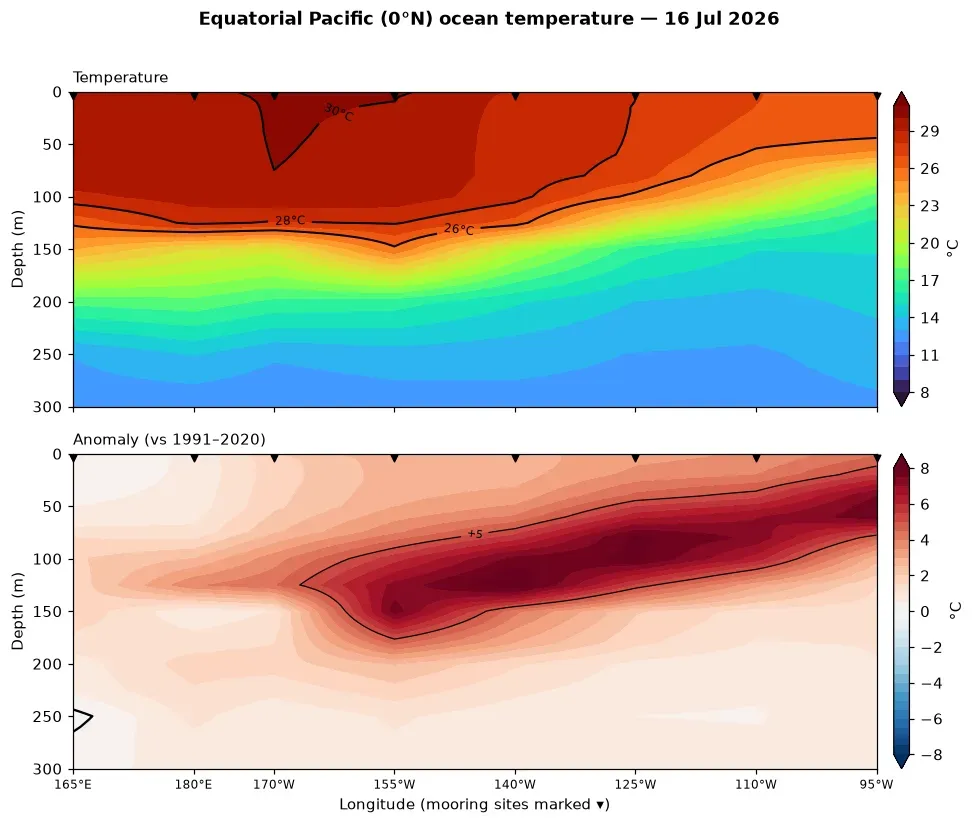
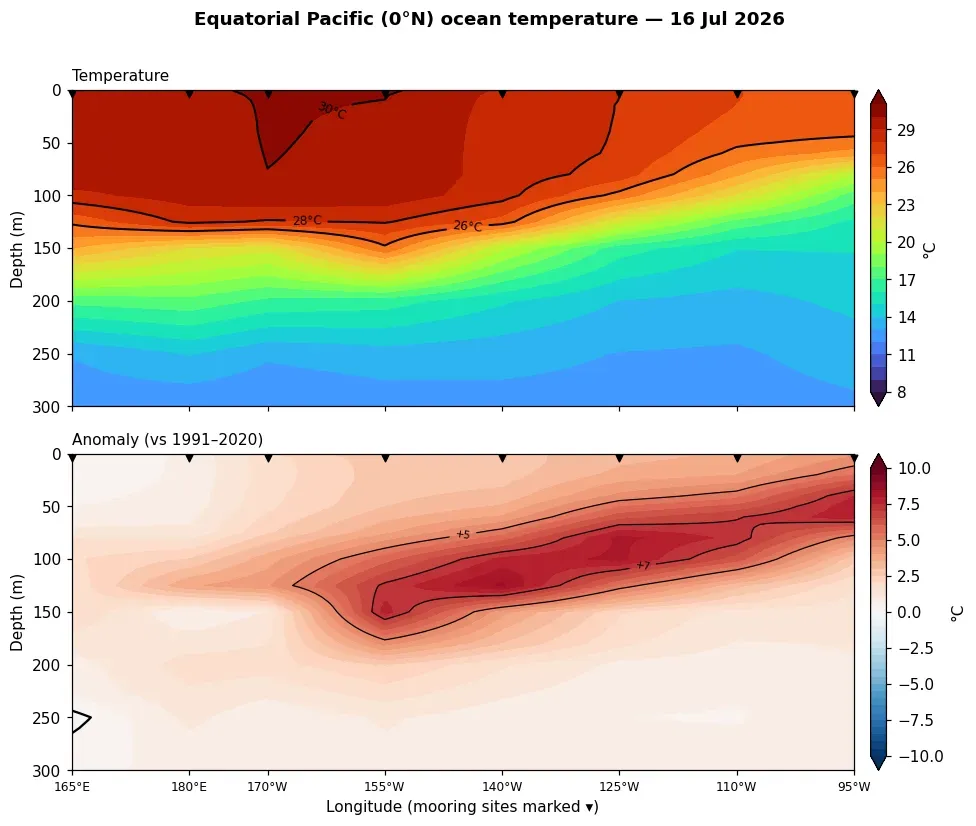
data update

Changed region(s): [[0.0, 0.0607, 0.9846, 1.0], [0.1846, 0.0, 0.8, 0.0303], [0.8, 0.4248, 0.8308, 0.4551]]

diff --git a/scripts/sst/pages/overview.html b/scripts/sst/pages/overview.html
@@ -234,17 +234,6 @@
     <div class="chart-card-footer"><span class="chart-sources">NASA GPM IMERG V07 &middot; regions: IDEAM zonificaci&oacute;n hidrogr&aacute;fica &middot; plants: WRI Global Power Plant Database + curated additions (approx. dam sites) &middot; refreshed with the precip loops</span></div>
   </div>
 
-  <!-- COLOMBIA / PANAMA TRUE-COLOR SATELLITE LOOP (GOES-East via GIBS) -->
-  <div class="chart-card media-narrow">
-    <div class="chart-card-header">
-      <h2>Colombia &amp; Panama: True-Colour Satellite Loop</h2>
-      <p>High-resolution true-colour (visible) imagery over the Colombia/Panama region from <b>GOES-East</b> (NOAA's GeoColor product via NASA GIBS), which sits almost directly overhead here. Because it is visible imagery, the loop runs through the daylight hours of the last two days. <b style="color:#00b3a4">Cyan&nbsp;+</b> marks are GOES&nbsp;GLM lightning flashes from the 15&nbsp;minutes before each frame. Country borders and coastlines are overlaid in yellow.</p>
-    </div>
-    <iframe class="anim-embed colombia" src="sst_anim.html?embed=1&amp;manifest=colombia_manifest.json&amp;region=colombia"
-            title="High-resolution true-colour GOES-East satellite loop over Colombia and Panama" loading="lazy"></iframe>
-    <div class="chart-card-footer"><span class="chart-sources">GOES-East ABI GeoColor (true colour) &middot; NASA GIBS &middot; country borders Natural Earth 10 m &middot; hourly daylight frames, rolling 2&nbsp;days</span></div>
-  </div>
-
   <!-- OLR WHEELER-KILADIS WAVE DECOMPOSITION -->
   <div class="chart-card">
     <div class="chart-card-header">

diff --git a/scripts/sst/olr_waves.py b/scripts/sst/olr_waves.py
@@ -266,27 +266,27 @@ def render(anom: xr.DataArray, end: datetime, days: int, out: Path,
         y0 = np.datetime64(end) - np.timedelta64(prelim_days, "D")
         ax.axhspan(y0, tt.max(), color="0.45", alpha=0.13, zorder=5)
         ax.axhline(y0, color="0.3", lw=0.7, ls=(0, (4, 2)), zorder=5)
-        ax.text(357, y0, "preliminary (filter edge) ", color="0.3", fontsize=6.5,
+        ax.text(357, y0, "preliminary (filter edge) ", color="0.3", fontsize=8,
                 va="bottom", ha="right", zorder=6)
-    ax.set_xlim(0, 360); ax.set_xlabel("longitude"); ax.set_ylabel("date"); ax.invert_yaxis()
+    ax.set_xlim(0, 360); ax.set_xlabel("longitude", fontsize=11); ax.set_ylabel("date", fontsize=11); ax.invert_yaxis()
     ax.set_xticks(range(0, 361, 60))
-    ax.set_xticklabels(["0", "60E", "120E", "180", "120W", "60W", "0"])
+    ax.set_xticklabels(["0", "60E", "120E", "180", "120W", "60W", "0"], fontsize=10)
     for x in (60, 120, 180, 240, 300):
         ax.axvline(x, color="0.55", lw=0.3, ls=":", alpha=0.6, zorder=3)
     # region labels along the top for orientation
     secax = ax.secondary_xaxis("top"); secax.set_xticks([75, 130, 180, 235, 270])
     secax.set_xticklabels(["Indian O.", "Maritime\nCont.", "dateline", "central\nPacific", "E. Pacific"],
-                          fontsize=6.5, color="0.4"); secax.tick_params(length=0)
+                          fontsize=9, color="0.35"); secax.tick_params(length=0)
     ax.yaxis.set_major_formatter(DateFormatter("%d %b"))
     ax.set_title("OLR anomaly + convectively-coupled waves  ·  5°S–5°N"
-                 + (f"\n{subtitle}" if subtitle else ""), fontsize=10)
+                 + (f"\n{subtitle}" if subtitle else ""), fontsize=12.5, fontweight="bold")
     handles = [plt.Line2D([], [], color=WAVES[w]["color"], lw=WAVES[w]["lw"],
                           label=WAVES[w].get("label", w)) for w in waves]
-    leg = ax.legend(handles=handles, loc="upper right", fontsize=8, framealpha=0.92,
+    leg = ax.legend(handles=handles, loc="upper right", fontsize=9.5, framealpha=0.92,
                     title="solid = convection")
-    leg.get_title().set_fontsize(7)
+    leg.get_title().set_fontsize(8.5)
     cb = fig.colorbar(pm, ax=ax, orientation="horizontal", pad=0.055, aspect=42)
-    cb.set_label("OLR anomaly (W m⁻²)   ·   green = convection, brown = suppressed")
+    cb.set_label("OLR anomaly (W m⁻²)   ·   green = convection, brown = suppressed", fontsize=10.5)
     fig.tight_layout(); fig.savefig(out, dpi=110, bbox_inches="tight"); plt.close(fig)
     print(f"wrote {out}", flush=True)
 

diff --git a/scripts/sst/sst_subsurface.py b/scripts/sst/sst_subsurface.py
@@ -206,8 +206,8 @@ def interp_lon(field2d: np.ndarray, lons: np.ndarray) -> np.ndarray:
 # ── plotting ──────────────────────────────────────────────────────────────────
 TEMP_LEVELS = np.arange(8, 31.001, 1.0)
 TEMP_ISOTHERMS = [26, 28, 30]
-ANOM_LEVELS = np.arange(-8, 8.001, 0.5)
-ANOM_LIM = 8.0
+ANOM_LEVELS = np.arange(-10, 10.001, 0.5)   # extended ±8→±10: July 2026 event pushing past +8
+ANOM_LIM = 10.0
 
 
 def plot_frame(temp2d, anom2d, lons, date, out_path):
@@ -229,7 +229,7 @@ def plot_frame(temp2d, anom2d, lons, date, out_path):
                        cmap="RdBu_r", extend="both",
                        norm=mcolors.TwoSlopeNorm(0, -ANOM_LIM, ANOM_LIM))
     ax2.contour(LON_GRID, DEPTH_GRID, Ag, levels=[0], colors="k", linewidths=1.5)
-    c5 = ax2.contour(LON_GRID, DEPTH_GRID, Ag, levels=[-5, 5], colors="k", linewidths=0.8)
+    c5 = ax2.contour(LON_GRID, DEPTH_GRID, Ag, levels=[-7, -5, 5, 7], colors="k", linewidths=0.8)
     ax2.clabel(c5, fmt="%+d", fontsize=7)
     ax2.set_title("Anomaly (vs 1991–2020)", fontsize=10, loc="left")
     fig.colorbar(cf2, ax=ax2, label="°C", pad=0.02, fraction=0.046)
@@ -260,7 +260,7 @@ def plot_anom_pair(araw2d, adt2d, lons, date, out_path):
         cf = ax.contourf(LON_GRID, DEPTH_GRID, Ag, levels=ANOM_LEVELS, cmap="RdBu_r",
                          extend="both", norm=mcolors.TwoSlopeNorm(0, -ANOM_LIM, ANOM_LIM))
         ax.contour(LON_GRID, DEPTH_GRID, Ag, levels=[0], colors="k", linewidths=1.5)
-        c5 = ax.contour(LON_GRID, DEPTH_GRID, Ag, levels=[-5, 5], colors="k", linewidths=0.8)
+        c5 = ax.contour(LON_GRID, DEPTH_GRID, Ag, levels=[-7, -5, 5, 7], colors="k", linewidths=0.8)
         ax.clabel(c5, fmt="%+d", fontsize=7)
         ax.set_title(title, fontsize=10, loc="left")
         fig.colorbar(cf, ax=ax, label="°C", pad=0.02, fraction=0.046)
